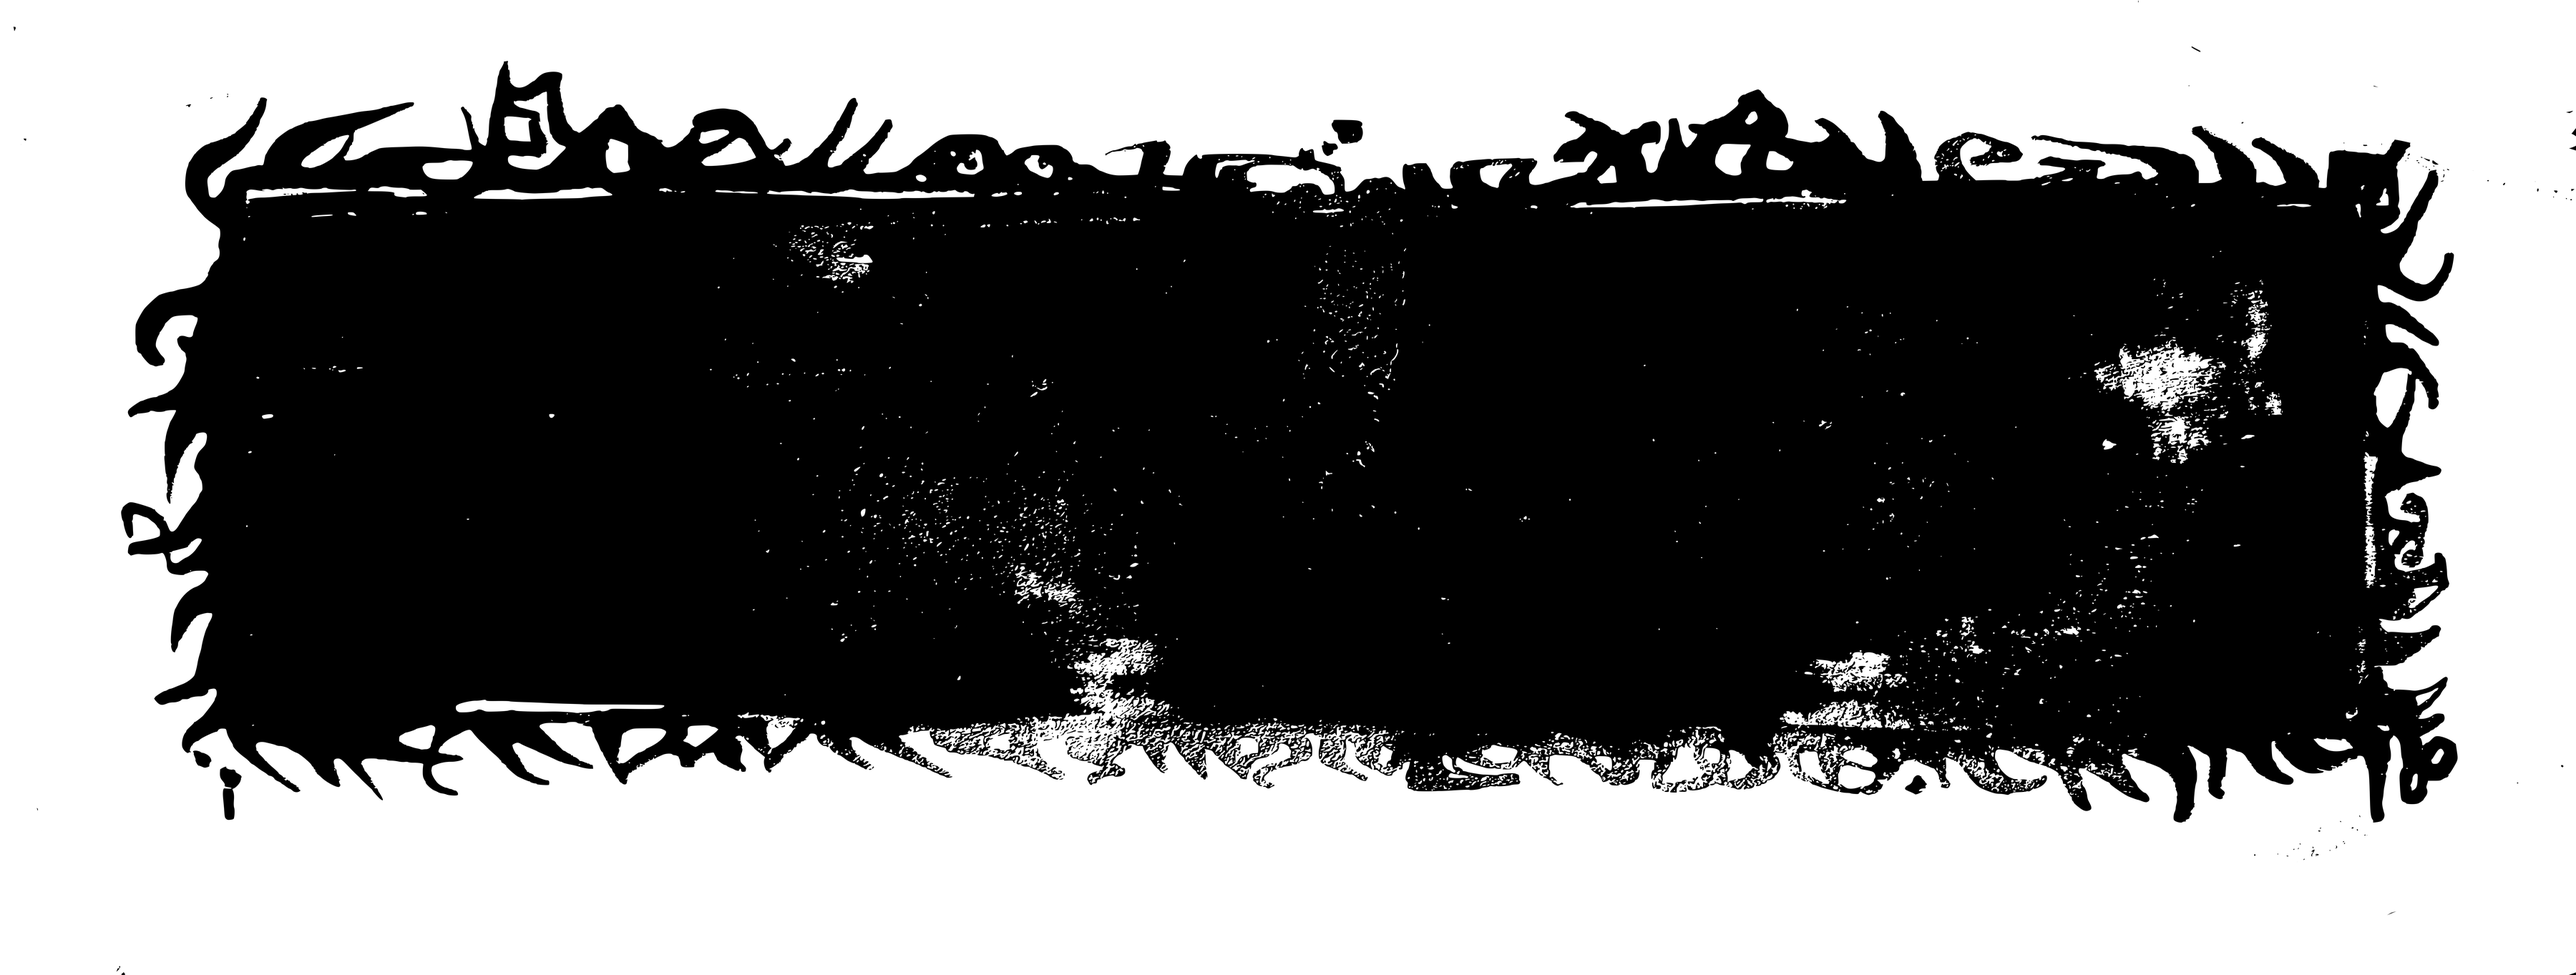
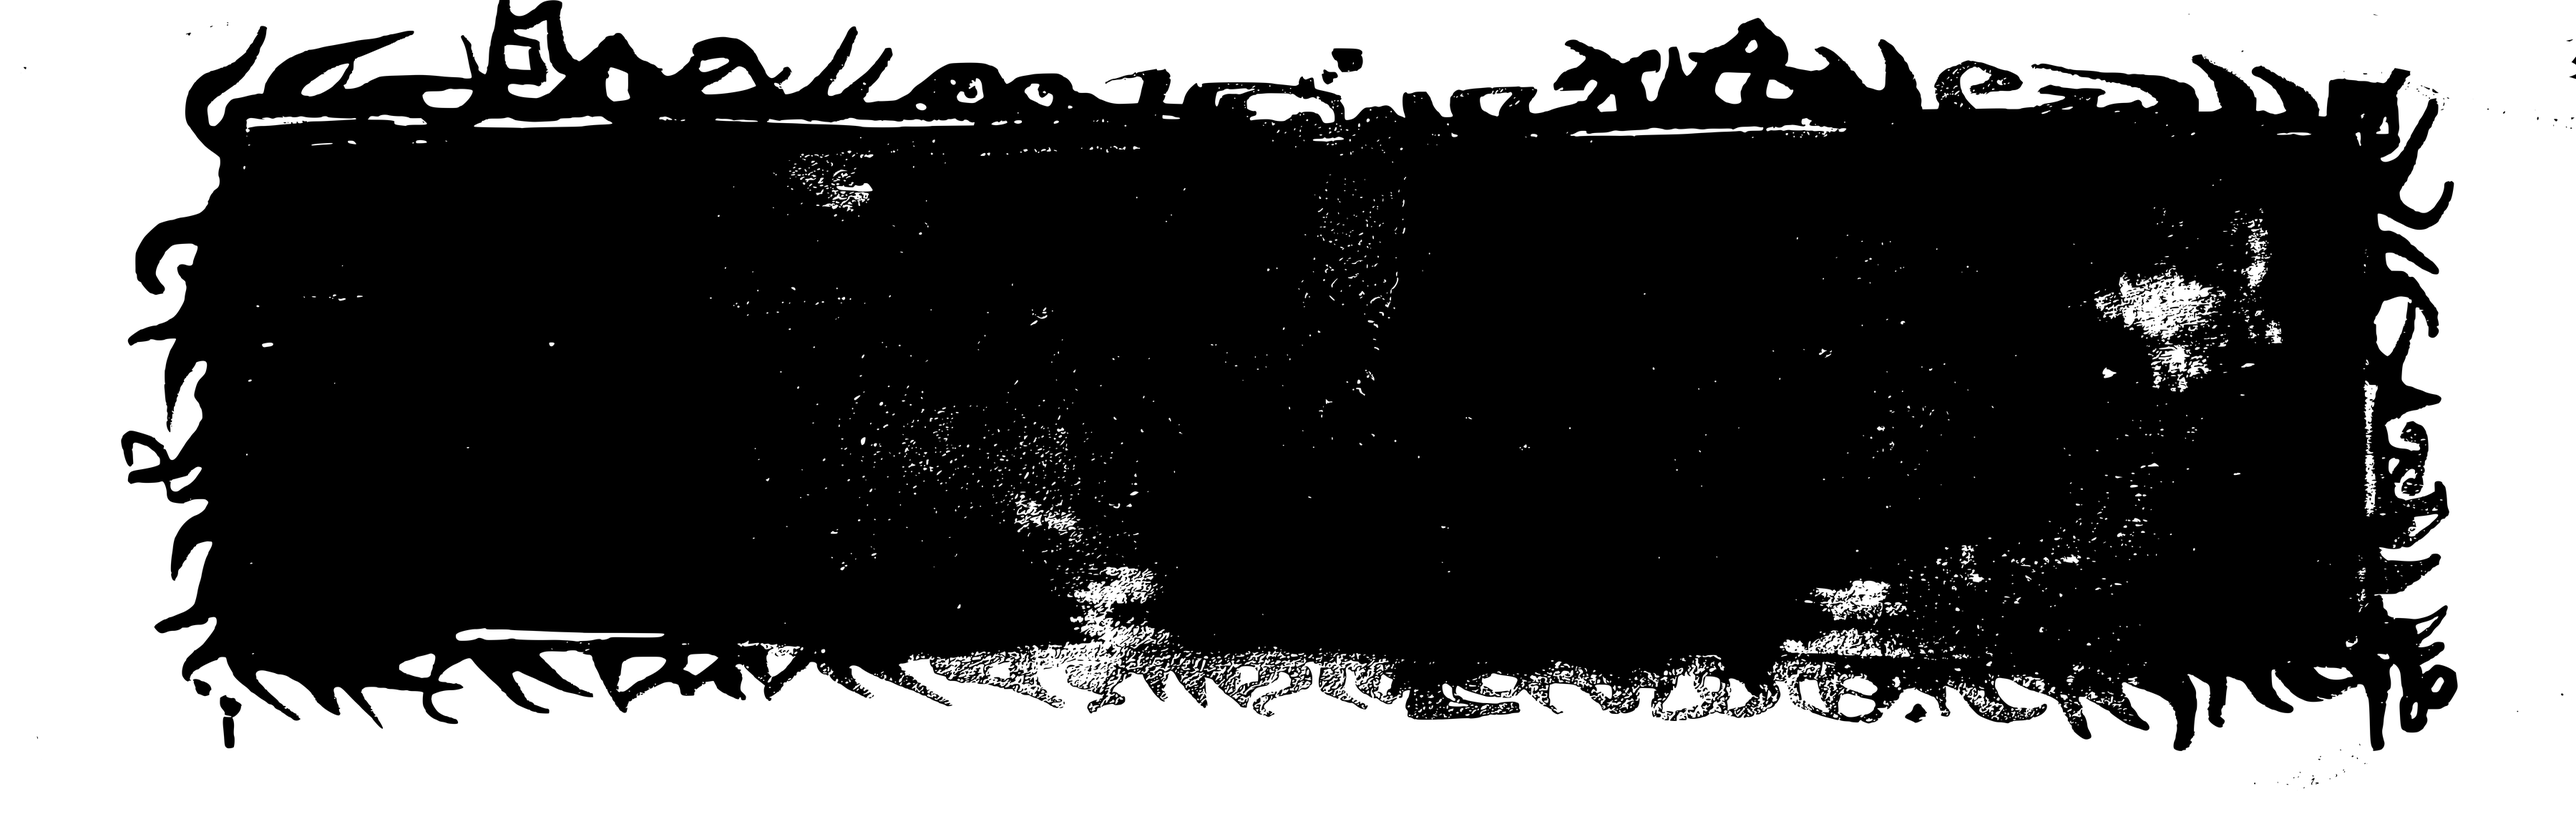
Enlarge the video-page ink frame further and balance its width
Crop the frame image's wasted fully-transparent top/bottom margins so
more of the available padding actually renders as ink, then use that
efficiency gain plus a tighter video-top-row to push the margin much
bigger on both desktop and mobile. Also narrows the frame so its width
sits closer to the bird drawing below it.

diff --git a/styles.css b/styles.css
@@ -552,13 +552,17 @@ nav.menu a:hover, nav.menu a:focus-visible { opacity: .6; }
 .presskit p { margin: 0 0 .7rem; line-height: 1.55; color: #222; }
 .presskit p.press-lede { font-size: 1.3rem; color: var(--rouge); }
 .presskit em { font-style: italic; }
-/* dessin du fantôme à crâne, posé à gauche du paragraphe "About" : flottant
-   classique (float), pas une colonne flex - le paragraphe garde exactement
-   sa largeur/son alignement habituels (comme Biography juste en dessous),
-   seul son texte s'enroule autour de l'image sur les 2-3 premières lignes. */
-.argumentum-ghost { float: left; width: clamp(56px, 14vw, 100px); height: auto; margin: .2rem 1rem .5rem 0; }
-@media (max-width: 480px) {
-  .argumentum-ghost { width: clamp(44px, 20vw, 70px); margin: .1rem .7rem .4rem 0; }
+/* dessin du fantôme à crâne : par défaut, simple image bloc après le
+   paragraphe "About" (ne touche ni à sa largeur ni à son alignement, texte
+   identique à Biography juste en dessous). Seulement au-delà de ~1450px,
+   .argumentum-page (plafonnée à 1100px, centrée) laisse une vraie marge
+   vide des deux côtés : assez large pour y loger le dessin en position
+   absolue, dans la marge réelle de la page plutôt que dans la colonne de
+   texte - rien ne bouge dans le texte, à aucune largeur d'écran. */
+.argumentum-ghost { display: block; width: clamp(56px, 9vw, 90px); height: auto; margin: 1.1rem auto 0; }
+@media (min-width: 1450px) {
+  .about-article { position: relative; }
+  .argumentum-ghost { position: absolute; left: -134px; top: .15rem; width: 100px; margin: 0; }
 }
 .rider-grid { display: grid; grid-template-columns: 1fr; gap: 2rem; }
 .rider dt { font-weight: 700; font-size: .82rem; letter-spacing: .05em; text-transform: uppercase; color: #777; margin-top: 1rem; }
@@ -600,7 +604,7 @@ nav.menu a:hover, nav.menu a:focus-visible { opacity: .6; }
    débordement), sans provoquer de scroll interne. La place est trouvée en
    rétrécissant un peu video-top-row/video-art (voir plus bas), pas en
    réduisant les vidéos elles-mêmes qui restent le contenu principal. */
-.video-embeds { position: relative; width: 100%; max-width: min(84%, 500px); margin: 0 auto; display: flex; flex-direction: row; gap: .9rem; padding: 3.6rem 1.8rem 4.2rem; box-sizing: border-box; background: url(video-frame.png) center / 100% 100% no-repeat; }
+.video-embeds { position: relative; width: 100%; max-width: min(78%, 480px); margin: 0 auto; display: flex; flex-direction: row; gap: .9rem; padding: 6.8rem 3.2rem 7.6rem; box-sizing: border-box; background: url(video-frame.png) center / 100% 100% no-repeat; }
 .video-embed { flex: 1 1 0; min-width: 0; }
 .video-embed-frame { position: relative; width: 100%; aspect-ratio: 16 / 9; box-sizing: border-box; border: 3px solid #000; box-shadow: 0 4px 14px rgba(0,0,0,.25); overflow: hidden; }
 .video-embed-frame iframe { position: absolute; inset: 0; width: 100%; height: 100%; border: 0; }
@@ -608,7 +612,7 @@ nav.menu a:hover, nav.menu a:focus-visible { opacity: .6; }
 /* marge resserrée sur la page vidéo (desktop compris, pas que mobile) :
    regagner de la hauteur pour que le cadre à l'encre des vidéos puisse
    avoir une vraie marge de noir sans provoquer de scroll interne. */
-body.video-page .frame-content { gap: 1rem; }
+body.video-page .frame-content { gap: .75rem; }
 .comodoro-art { box-sizing: border-box; display: block; width: min(58%, 340px); height: auto; margin: 0 auto; border: 3px solid #000; box-shadow: 0 4px 14px rgba(0,0,0,.25); }
 /* "il y en a plus" sous le 2e dessin : pointe vers la bande de miniatures
    juste en dessous du cadre - dessin vectoriel original de la souris (fourni
@@ -665,7 +669,7 @@ body.video-page .frame-content { gap: 1rem; }
   .video-top-row { max-width: 46vw; gap: .5rem; }
   .video-figures { width: min(46%, 112px); }
   .tv-wrap { width: min(36%, 88px); }
-  .video-embeds { max-width: 46vw; padding: 1.4rem .9rem 1.7rem; }
+  .video-embeds { max-width: 38vw; padding: 3.3rem 1.8rem 3.9rem; }
   /* les 3 liens sociaux + le corbac dépassaient légèrement la zone noire
      du cadre, forçant un petit scroll interne inutile. Resserré encore
      (gap .5rem) depuis l'ajout du lien mentions légales, un 5e élément. */
@@ -714,16 +718,16 @@ body.video-page .frame-content { gap: 1rem; }
    les oiseaux empilés (dimensionnés en % du cadre) dépassent alors la
    hauteur du cadre. On y plafonne leur hauteur (vw, pas % : indépendant de
    la largeur du cadre lui-même). .video-art un peu plus bas que les autres
-   (40vw au lieu de 47vw) : la paire de vidéos a gagné un vrai cadre à
-   l'encre (padding) qui prend de la place, il faut regagner cette hauteur
-   ailleurs pour rester sans scroll interne. */
+   (37vw au lieu de 47vw à l'origine) : la paire de vidéos a gagné un vrai
+   cadre à l'encre (padding généreux) qui prend de la place, il faut
+   regagner cette hauteur ailleurs pour rester sans scroll interne. */
 @media (min-width: 641px) and (max-width: 1250px) {
   /* width (pas max-height) : .tv-wrap est un <div>, pas une image — lui
      imposer une max-height sans largeur définie fait s'effondrer sa taille
      (bug constaté : 0x0). Une largeur directe en vw garde le calcul de la
      hauteur (height:auto sur l'image à l'intérieur) simple et fiable. */
-  .tv-wrap { width: 15vw; }
-  .video-figures { width: auto; max-width: 18.5vw; max-height: 22vw; }
+  .tv-wrap { width: 12.5vw; }
+  .video-figures { width: auto; max-width: 15.5vw; max-height: 18.5vw; }
   .video-art { max-height: 37vw; }
   .comodoro-art { max-height: 20vw; }
   .contact-art { max-height: 44vw; }

diff --git a/video-es.html b/video-es.html
@@ -17,7 +17,7 @@
 <meta property="og:image:height" content="602">
 <meta name="twitter:card" content="summary_large_image">
 <link rel="icon" type="image/png" href="favicon.png?v=2">
-<link rel="stylesheet" href="styles.css?v=281">
+<link rel="stylesheet" href="styles.css?v=283">
 <script type="application/ld+json">
 {
   "@context": "https://schema.org",

diff --git a/video-fr.html b/video-fr.html
@@ -17,7 +17,7 @@
 <meta property="og:image:height" content="602">
 <meta name="twitter:card" content="summary_large_image">
 <link rel="icon" type="image/png" href="favicon.png?v=2">
-<link rel="stylesheet" href="styles.css?v=281">
+<link rel="stylesheet" href="styles.css?v=283">
 <script type="application/ld+json">
 {
   "@context": "https://schema.org",

diff --git a/video-ro.html b/video-ro.html
@@ -17,7 +17,7 @@
 <meta property="og:image:height" content="602">
 <meta name="twitter:card" content="summary_large_image">
 <link rel="icon" type="image/png" href="favicon.png?v=2">
-<link rel="stylesheet" href="styles.css?v=281">
+<link rel="stylesheet" href="styles.css?v=283">
 <script type="application/ld+json">
 {
   "@context": "https://schema.org",

diff --git a/video.html b/video.html
@@ -17,7 +17,7 @@
 <meta property="og:image:height" content="602">
 <meta name="twitter:card" content="summary_large_image">
 <link rel="icon" type="image/png" href="favicon.png?v=2">
-<link rel="stylesheet" href="styles.css?v=281">
+<link rel="stylesheet" href="styles.css?v=283">
 <script type="application/ld+json">
 {
   "@context": "https://schema.org",
